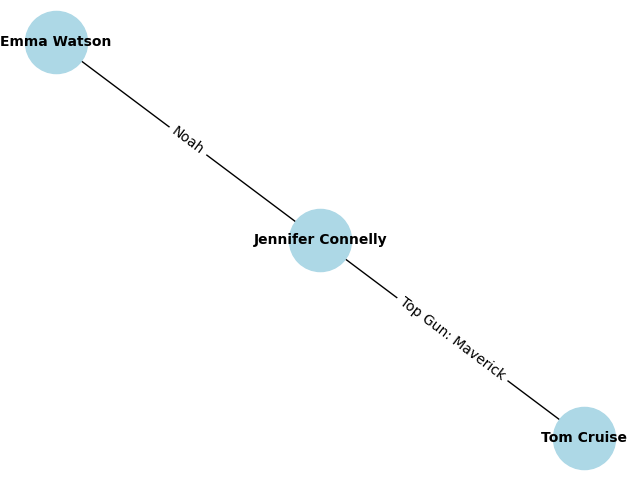
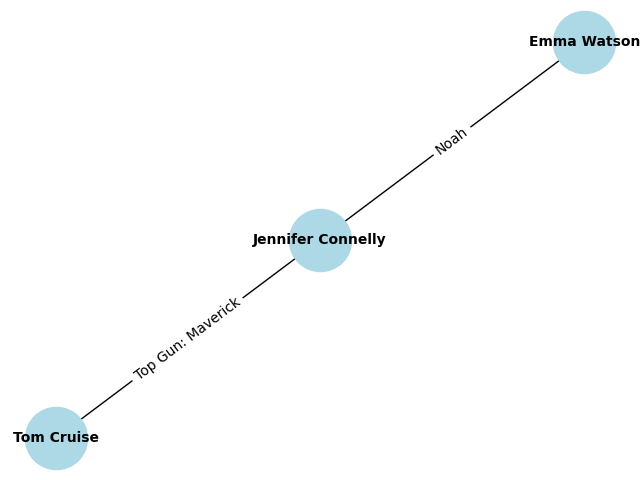
feat: Add algorithm selection and improved input handling for shortest path search

diff --git a/degrees.py b/degrees.py
@@ -62,14 +62,39 @@ def main():
     load_data(directory)
     print("Data loaded.")
 
-    source = person_id_for_name(input("Name: "))
-    if source is None:
-        sys.exit("Person not found.")
-    target = person_id_for_name(input("Name: "))
-    if target is None:
-        sys.exit("Person not found.")
+    # Escolher algoritmo
+    print("Escolha o algoritmo:")
+    print("1: BFS tradicional")
+    print("2: Bidirectional BFS")
+    choice = input("Digite 1 ou 2 (padrão: 1): ").strip()
+    if choice == "2":
+        search_func = bidirectional_shortest_path
+        print("Usando Bidirectional BFS.")
+    else:
+        search_func = shortest_path
+        print("Usando BFS tradicional.")
 
-    path, execution_time = measure_execution_time(bidirectional_shortest_path, source, target)
+    # Solicitar nome de origem até encontrar ou sair
+    while True:
+        name = input("Name: ")
+        if name.lower() == "q":
+            sys.exit("Programa encerrado pelo usuário.")
+        source = person_id_for_name(name)
+        if source is not None:
+            break
+        print("Person not found. Try again or type 'q' to quit.")
+
+    # Solicitar nome de destino até encontrar ou sair
+    while True:
+        name = input("Name: ")
+        if name.lower() == "q":
+            sys.exit("Programa encerrado pelo usuário.")
+        target = person_id_for_name(name)
+        if target is not None:
+            break
+        print("Person not found. Try again or type 'q' to quit.")
+
+    path, execution_time = measure_execution_time(search_func, source, target)
 
     if path is None:
         print("Not connected.")
